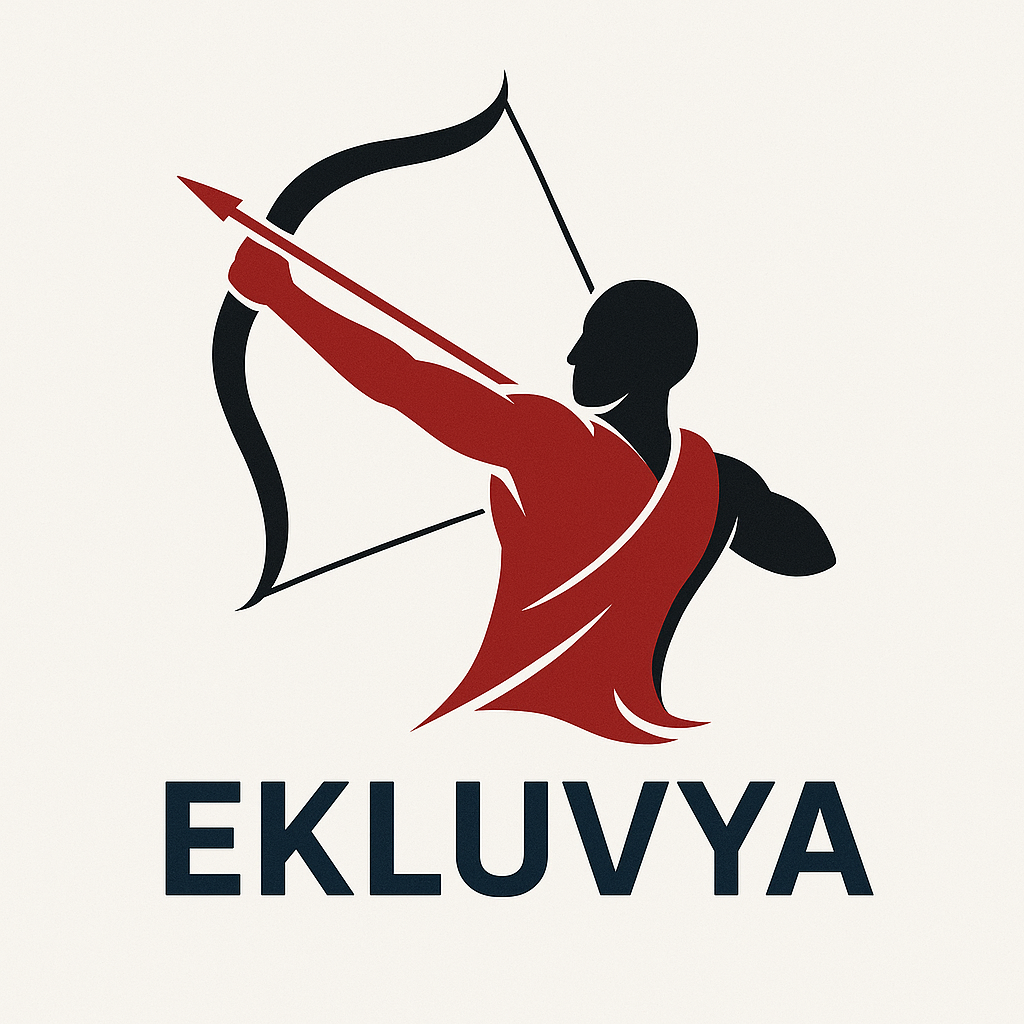
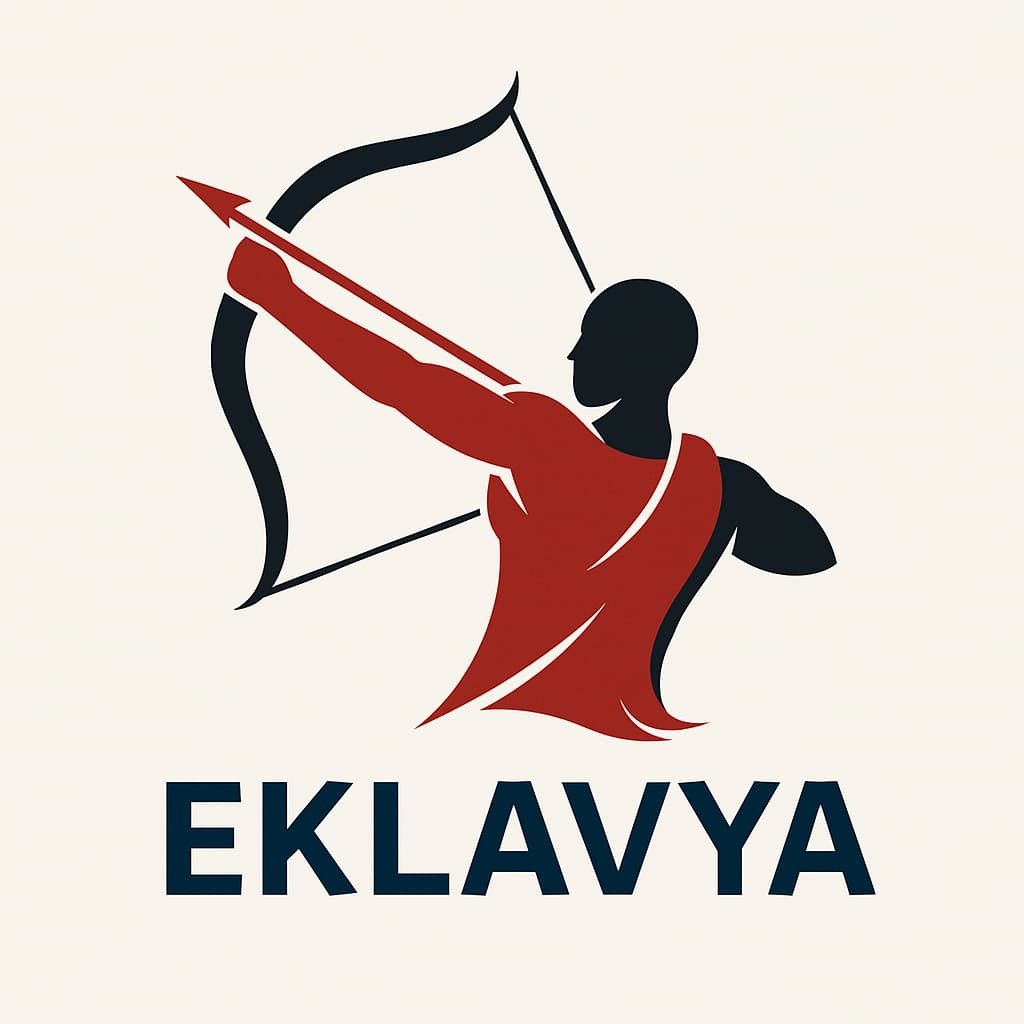
add

diff --git a/Frontend/src/pages/Home.jsx b/Frontend/src/pages/Home.jsx
@@ -182,7 +182,7 @@ const Home = () => {
               <div className="space-y-6 mb-12">
                 <h1 className="text-5xl md:text-7xl lg:text-8xl font-black leading-tight">
                   <span className="block bg-gradient-to-r from-white via-blue-100 to-purple-100 bg-clip-text text-transparent drop-shadow-lg">
-                    EKLUVYA
+                    EKLAVYA
                   </span>
                   <span className="block bg-gradient-to-r from-red-400 via-pink-400 to-purple-400 bg-clip-text text-transparent animate-pulse">
                     CLUB
@@ -223,7 +223,7 @@ const Home = () => {
                   <img
                     src={EkLUVYA}
                     alt="Ekluvya Logo"
-                    className="w-64 h-64 md:w-80 md:h-80 lg:w-96 lg:h-96 drop-shadow-2xl object-contain"
+                    className="w-64 h-64 md:w-80 md:h-80 lg:w-96 lg:h-96 drop-shadow-2xl object-contain rounded-2xl"
                   />
                 </div>
 

diff --git a/Frontend/src/components/Footer.jsx b/Frontend/src/components/Footer.jsx
@@ -4,7 +4,7 @@ const Footer = () => {
       <div className="max-w-7xl mx-auto px-4 sm:px-6 lg:px-8">
         <div className="grid grid-cols-1 md:grid-cols-3 gap-8">
           <div>
-            <h3 className="text-xl font-bold mb-4">EKLUVYA CLUB</h3>
+            <h3 className="text-xl font-bold mb-4">EKLAVYA CLUB</h3>
             <p className="text-gray-400 mb-4">
               Empowering students through coding, robotics, speaking, and hobbies.
             </p>
@@ -47,7 +47,7 @@ const Footer = () => {
           </div>
         </div>
         <div className="mt-8 pt-8 border-t border-gray-700 text-center text-gray-400">
-          <p>&copy; {new Date().getFullYear()} EKLUVYA CLUB. All rights reserved.</p>
+          <p>&copy; {new Date().getFullYear()} EKLAVYA CLUB. All rights reserved.</p>
         </div>
       </div>
     </footer>

diff --git a/Frontend/src/components/Navbar.jsx b/Frontend/src/components/Navbar.jsx
@@ -93,7 +93,7 @@ const Navbar = () => {
                   <div className="absolute -top-1 -right-1 w-4 h-4 bg-amber-400 rounded-full animate-pulse"></div>
                 </div>
                 <span className="text-2xl font-black bg-gradient-to-r from-indigo-600 to-violet-500 bg-clip-text ">
-                  EKLUVYA
+                  EKLAVYA
                 </span>
               </a>
             </div>
